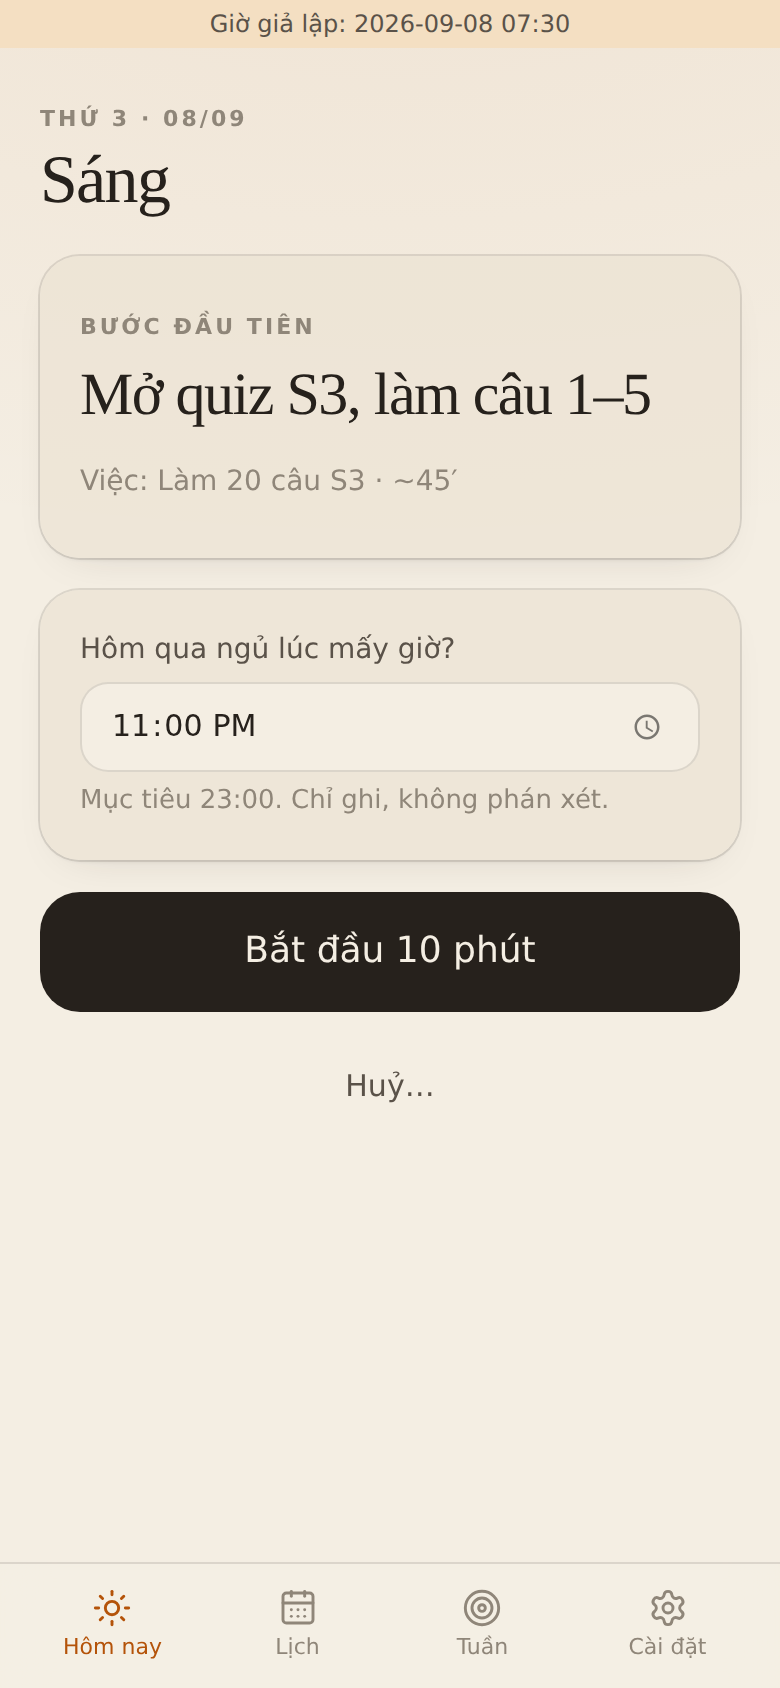
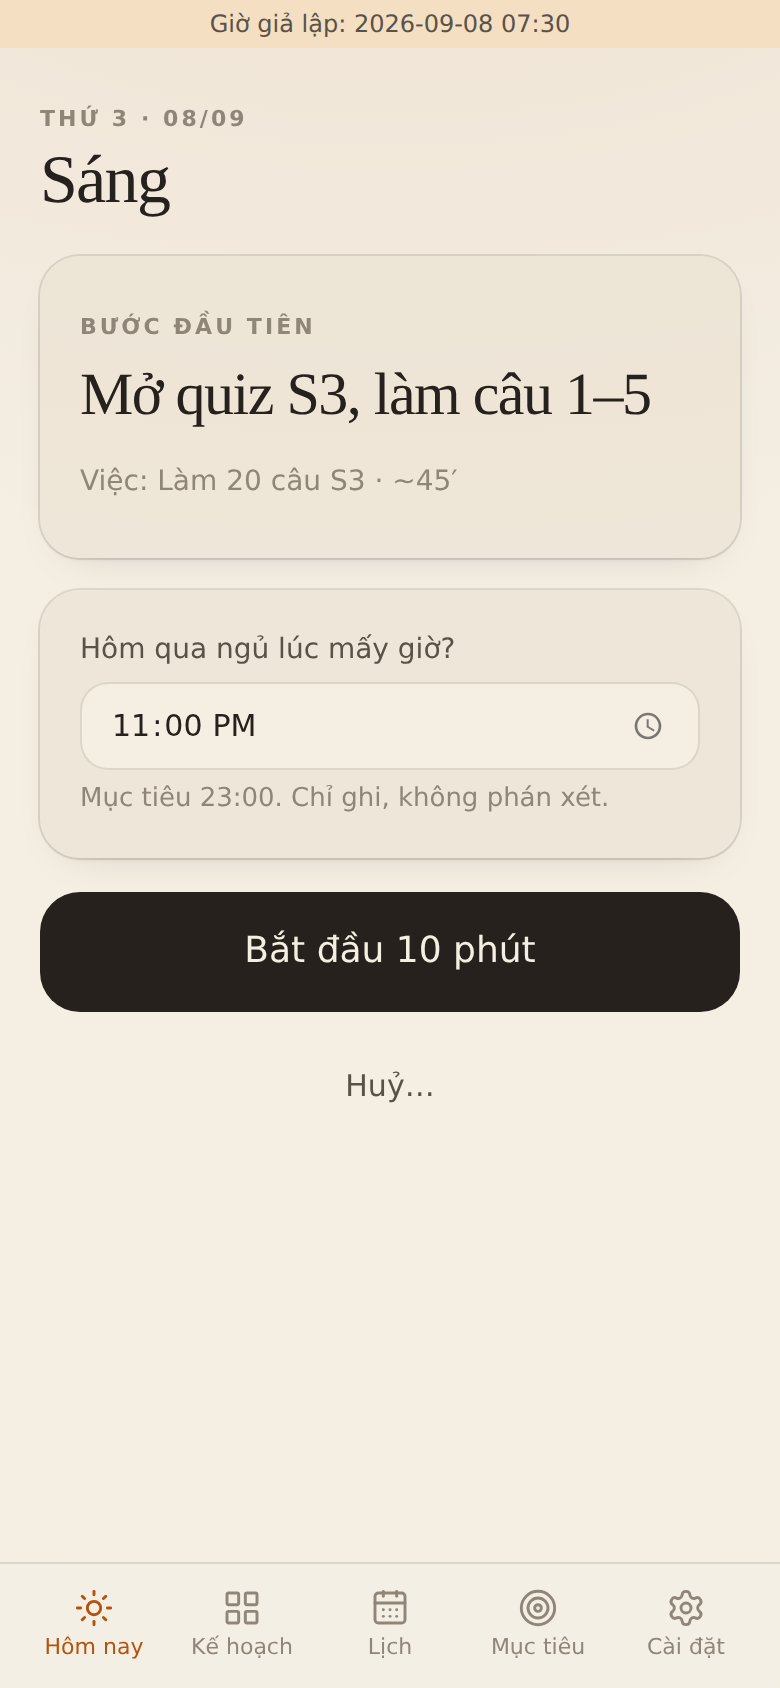
docs: README and plan for v0.3 (personal management system), new screenshots
Claude-Session: https://claude.ai/code/session_01BCiC3tnhB7K4xh2K39qLye

diff --git a/docs/03-plan.md b/docs/03-plan.md
@@ -1,7 +1,7 @@
 # 03 · Plan phát triển web app "Một Việc"
 
-> **Trạng thái (2026-09-08):** M0–M4 xong (v0.1), rồi v0.2 theo yêu cầu review: UI mới, vi/en, form mềm,
-> nghỉ tích hợp, lịch tháng, Supabase sync tuỳ chọn. 65 test pass, e2e walkthrough pass, deploy Pages xanh.
+> **Trạng thái (2026-09-08):** v0.1 (M0–M4) → v0.2 (UI, vi/en, form mềm, nghỉ, lịch, Supabase) → **v0.3: đổi hướng thành hệ quản lý cá nhân**
+> (nhiều việc/ngày, ma trận Eisenhower, kéo thả, mục tiêu tuần/quý/năm, thống kê, thông báo). 79 test pass, e2e pass, deploy Pages xanh.
 > Việc còn lại của MVP là **dùng thật 4 tuần** và đo (mục "Cột mốc đánh giá"). Khác biệt so với plan gốc: mục 8.
 
 > Plan này tự áp dụng chính các rule của app: mỗi milestone là **1 việc chính**, có **Definition of Done** kiểm được,
@@ -171,3 +171,21 @@ Push notification giờ Shutdown · AI concretizer · Sync Supabase · Body-doub
 | Cloud DB free | Cần nếu dùng 2 máy hoặc sợ mất dữ liệu. | Supabase free + magic link, local-first + outbox + LWW. Không cấu hình thì app vẫn chạy thuần local. |
 
 Việc user cần làm để bật sync: xem README mục "Đồng bộ cloud".
+
+## 11. v0.3 (2026-09-08) — đổi hướng sản phẩm theo quyết định của user
+
+**Lý do:** sau khi dùng thử, user xác định nhu cầu là quản lý toàn bộ đầu việc trong ngày, lịch sử theo tháng, mục tiêu tuần/quý/năm có follow-up, thống kê để tự chỉnh đốn, tách Cá nhân / Công việc, có kéo thả. Tôi đã nêu rủi ro (công cụ lập kế hoạch dễ thành nơi trì hoãn); user giữ quyết định. Cơ chế chống trì hoãn của v0.1 được giữ như một lớp: ★ MIT tuỳ chọn mỗi ngày, timer 10′, hậu quả, huỷ có ma sát, đóng ngày, night mode.
+
+| Việc | Đã làm |
+|---|---|
+| Data model v4 | Task: area, quadrant, isMain (≤1/ngày), order, scheduledFor tuỳ chọn (Backlog), startAt. Goal: horizon + periodKey + parentId + checkins. Migration tự động. |
+| Hôm nay | Danh sách không giới hạn theo khu vực, kéo thả sắp thứ tự, ▶ theo việc, thêm nhanh có token, MIT card giữ nguyên. |
+| Kế hoạch | Ma trận Eisenhower cho Backlog + Inbox Parking Lot + Tuần 7 ngày, kéo thả bằng dnd-kit. |
+| Lịch | Xong/tổng theo ngày, chi tiết ngày, thống kê tháng lọc khu vực, biểu đồ cột. Bỏ giới hạn 14 ngày. |
+| Mục tiêu | Tuần ▸ Quý ▸ Năm, check-in 3 trạng thái + ghi chú, review tuần chuyển sang đây. |
+| Đóng ngày | Rà mọi việc treo (bắt buộc xử lý), chốt mai, Parking Lot thành việc. |
+| Thông báo | Âm, rung, Notification API; hết giờ, hết nghỉ, giờ đóng ngày, giờ bắt đầu việc. |
+
+**Không làm (cố ý):** timeline theo giờ trong ngày, kéo thả sắp thứ tự trong Parking Lot, streak, push notification từ server.
+
+**Đo sau 4 tuần** (ở tab Lịch và Mục tiêu): tỉ lệ việc xong / tổng theo tháng, số ngày có ★ xong, số lần quay lại sau ngày trống, số check-in mục tiêu. Nếu Backlog lớn dần và ★ xong ít dần, đó là dấu hiệu app đang thành nơi xếp việc: quay về dùng đúng nghi thức sáng/tối.
